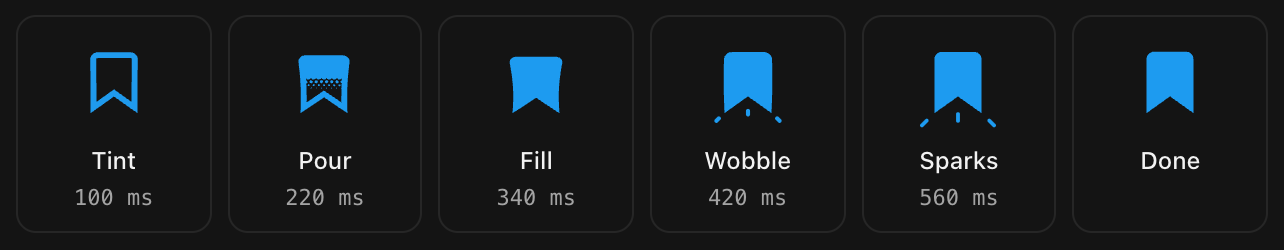
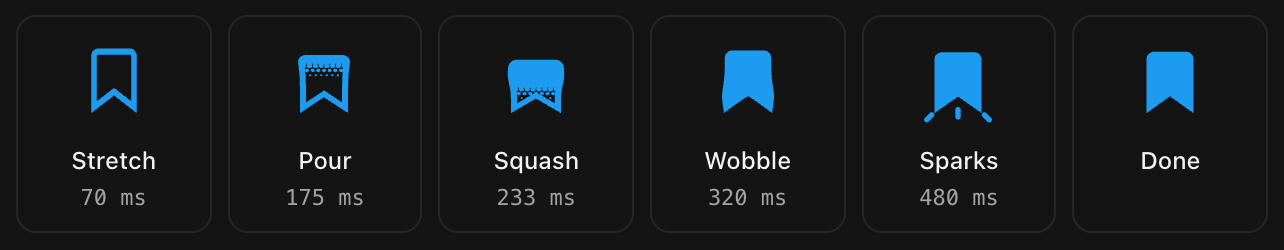
docs: 按新的特效更新说明、架构文档和截图
README 中英文两版的特效阶段表改为拉伸、灌入、压扁、晃动、火花，
时间和幅度都换成从原视频测出的数值。architecture.md 补充了测量方法、
网点液面的尺寸、果冻形变的参数和 track() 插值。docs/screenshots/
由 npm run screenshots 重新生成。

diff --git a/docs/architecture.md b/docs/architecture.md
@@ -16,14 +16,17 @@ The extension watches for step 2. It never clicks, sends or changes anything X n
 
 ## The effect
 
-| Phase | Time (bookmarking) | What happens |
-| --- | --- | --- |
-| Tint | 0–110 ms | The outline turns from grey to blue |
-| Pour | 80–360 ms | Blue liquid pours in from the top. Its edge is a row of round bumps with three rows of droplets ahead of it. The top of the icon swells. |
-| Wobble | 360–900 ms | The icon springs back: the top narrows, the middle pinches, then it settles |
-| Sparks | 340–880 ms | Three sparks fly out of the bottom corners and from under the notch. Each starts as a dot, stretches into a dash, then shrinks and fades. |
+Every curve was measured frame by frame (60 fps) from [@itsluneri's video](https://x.com/itsluneri/status/2116674589719675144), at its normal-speed takes: the bookmark at 0.76 s and the removal at 2.67 s. The icon is 195 px wide there, about 12 px per icon unit, so the measurements are good to a tenth of a unit.
 
-Removing a bookmark (600 ms) swells the top, drains the liquid back up and fades the outline to grey. It has no sparks.
+| Phase | Time (bookmarking, 820 ms) | What happens |
+| --- | --- | --- |
+| Stretch | 0–130 ms | The icon stretches 6 % taller and 3 % narrower. The outline turns from grey to blue by 68 ms. |
+| Pour | 88–268 ms | Liquid falls in from the top with constant acceleration. Its edge is a halftone on 1.81-unit columns: tabs 1.57 long with thin slits between them, large dots (r 0.65) under the slits, small dots (r 0.38) under the tabs. |
+| Squash | 150–300 ms | The icon squashes 13 % shorter, widening by half as much. A bulge up to 14 % wide forms at the top and runs down the icon. |
+| Wobble | 300–620 ms | The icon rebounds 4 % taller, then settles |
+| Sparks | 375–810 ms | As the bulge reaches the bottom, three sparks pop out at the bottom corners (at 45°) and under the notch (straight down). Each outer end shoots out 4.3–4.8 units and slows; the inner end follows later, so the spark stretches into a dash, thins from 1.95 to 1.35 units, and fades from 675 ms. |
+
+Removing a bookmark (540 ms) stretches the icon 6 %, then squashes it 9 % with a bulge running from the bottom up while the liquid drains out, fast at first and slowing to a stop at 395 ms. The outline and the last dots fade to grey from 285 to 415 ms. It has no sparks.
 
 ## Parts
 
@@ -39,17 +42,19 @@ chrome.storage.local        { settings: { enabled, onRemove, locale, version } }
 
 ### `src/effect.ts`: the effect as numbers
 
-`frameAt(kind, ms)` returns one frame: the outline colour's progress, where the liquid's edge is, how the icon is bent and where each spark is. `geometry(frame)` turns that into SVG path data:
+`frameAt(kind, ms)` returns one frame: the colour's progress, where the liquid's edge is, how the icon is bent and where each spark is. `geometry(frame)` turns that into SVG path data:
 
 - The icon's outer edge and the hole in the outline icon are sampled every 0.5 units, so they still look smooth once bent.
-- Bending moves each point sideways by `widthAt(y)`, which widens or narrows the top (`bell`) and pinches the middle (`waist`), and lowers the top towards the bottom edge (`squash`). The bottom edge never moves, so the sparks always leave from the same corners.
-- The liquid is a block above its edge, nine overlapping circles along the edge, and droplets below it. Everything is clipped to the hole grown by 0.25 units. The overlap hides the antialiasing seam two touching shapes of one colour would leave.
+- The jelly is a `Shape`. `squash` lowers the top towards the bottom edge (negative stretches it) and widens the icon by half as much, so it keeps its volume. A bulge of height `bump` sits at `at`, a fraction of the icon's height, and falls off over `above` and `below`. The bottom edge never moves, so the sparks always leave from the same corners.
+- The squash and bulge follow keyframes measured from the video, read with `track()`, a cubic Hermite spline through every key.
+- The liquid is a block above its edge and the halftone below it: tabs, then large dots, then small dots. Everything is clipped to the hole grown by 0.25 units. The overlap hides the antialiasing seam two touching shapes of one colour would leave.
+- The liquid's edge follows a parabola: constant acceleration when pouring, constant deceleration when draining.
 
 Nothing here touches the DOM, so `node --test` covers it directly.
 
 ### `src/render.ts`: drawing a frame
 
-`EffectView` holds one `<svg>` with the icon path (`fill-rule="evenodd"`, so outer edge plus hole is the outline), the liquid path with its `<clipPath>`, and three `<line>`s for the sparks. `draw(kind, ms, colors)` sets their attributes. Every node is made with `createElementNS`. The viewBox is `-3 -3 30 32`, a 24-unit icon with room around it for the swell and the sparks.
+`EffectView` holds one `<svg>` with the icon path (`fill-rule="evenodd"`, so outer edge plus hole is the outline), the liquid path with its `<clipPath>`, and three `<line>`s for the sparks. `draw(kind, ms, colors)` sets their attributes. All three share one colour, so the last of the liquid fades to grey with the outline when a bookmark is removed, as in the video. Every node is made with `createElementNS`. The viewBox is `-3 -3 30 32`, a 24-unit icon with room around it for the swell and the sparks.
 
 ### `src/content.ts`: playing it on x.com
 
@@ -88,7 +93,7 @@ English and Simplified Chinese strings for the settings page. The language defau
 
 | Command | What it covers |
 | --- | --- |
-| `npm test` | `test/unit/`: the icon's shape at rest, start and end frames, the liquid only moving one way, the bottom edge staying put, sparks staying inside the viewBox, no `NaN` in any path, colour parsing and mixing, settings, which effect plays for which switch, the preview text, both languages having the same keys |
+| `npm test` | `test/unit/`: the icon's shape at rest, start and end frames, the jelly matching the video's measured stretch, squash and rebound, the bulge's direction, the halftone's parts, the liquid accelerating in and decelerating out, the bottom edge staying put, sparks staying inside the viewBox, no `NaN` in any path, `track()`, colour parsing and mixing, settings, which effect plays for which switch, the preview text, both languages having the same keys |
 | `npm run test:e2e` | `test/e2e/run.mjs`: loads `dist/` into headless Chrome for Testing and maps `x.com` to a local HTTPS page whose bookmark buttons switch the way X's do, colour delay included. It covers clicking and <kbd>B</kbd>, the overlay sitting exactly on X's icon, the liquid and sparks, X's icon coming back untouched, re-renders and typing playing nothing, a slow server, reduced motion, both switches, storage, restore and undo, the preview, and the language switch. |
 | `npm run screenshots` | The same run, also writing the README images to `docs/screenshots/` |
 

diff --git a/README.md b/README.md
@@ -31,7 +31,7 @@
 
 </div>
 
-Surprise Collection is a Chrome extension for x.com. When you bookmark a post, X swaps the outline icon for a filled one in a single frame. Surprise Collection replaces that swap with the effect [@itsluneri showed](https://x.com/itsluneri/status/2116674589719675144): the icon turns blue, liquid pours in from the top with droplets running ahead of it, the icon wobbles back into shape, and three sparks fly out below it. Removing a bookmark drains the liquid back out.
+Surprise Collection is a Chrome extension for x.com. When you bookmark a post, X swaps the outline icon for a filled one in a single frame. Surprise Collection replaces that swap with the effect [@itsluneri showed](https://x.com/itsluneri/status/2116674589719675144): the icon stretches as it turns blue, liquid falls in behind a halftone edge, the icon squashes like jelly as the liquid lands, a bulge runs down it, and three sparks fly out below it. Removing a bookmark squashes it the other way and drains the liquid back out. Every curve was measured frame by frame from that video.
 
 Bookmarking itself works exactly as before. The extension only draws over the icon while the effect plays. It runs only on x.com and twitter.com, asks for no permission besides `storage`, and makes no network requests.
 
@@ -83,19 +83,20 @@ Then click the reload button on the extension's card in `chrome://extensions` an
 
 <picture>
   <source media="(prefers-color-scheme: dark)" srcset="docs/screenshots/frames-dark.png" />
-  <img src="docs/screenshots/frames-light.png" alt="The effect frame by frame: Tint at 100 ms, Pour at 220 ms, Fill at 340 ms, Wobble at 420 ms, Sparks at 560 ms, Done" width="640" />
+  <img src="docs/screenshots/frames-light.png" alt="The effect frame by frame: Stretch at 70 ms, Pour at 175 ms, Squash at 233 ms, Wobble at 320 ms, Sparks at 480 ms, Done" width="640" />
 </picture>
 
 </div>
 
 | Phase | When | What happens |
 |---|---|---|
-| **Tint** | 0–110 ms | The outline turns from X's grey to its bookmarked blue. |
-| **Pour** | 80–360 ms | Liquid pours in from the top. Its edge is a row of bumps with droplets running ahead of it, and the top of the icon swells. |
-| **Wobble** | 360–900 ms | The icon springs back into shape and settles. |
-| **Sparks** | 340–880 ms | Three sparks fly out of the bottom corners and from under the notch, stretch into dashes, then fade. |
+| **Stretch** | 0–130 ms | The icon stretches 6 % taller and narrower while the outline turns from X's grey to its bookmarked blue. |
+| **Pour** | 88–268 ms | Liquid falls in from the top, faster and faster. Its edge is a halftone: a row of tabs with thin slits between them, a row of large dots, then a row of small dots. |
+| **Squash** | 150–300 ms | As the liquid lands, the icon squashes 13 % shorter and bulges out at the top. The bulge runs down the icon and flares its bottom. |
+| **Wobble** | 300–620 ms | The icon rebounds 4 % taller and settles. |
+| **Sparks** | 375–810 ms | When the bulge reaches the bottom, three sparks fly out of the bottom corners and from under the notch. Each stretches into a dash, thins, and fades. |
 
-Removing a bookmark takes 600 ms: the top swells, the liquid drains back up and the outline fades to grey.
+Removing a bookmark takes 540 ms: the icon stretches, then squashes 9 % with a bulge running up it while the liquid drains back out, and the outline and the last dots fade to grey.
 
 ## Features
 

diff --git a/README.zh-CN.md b/README.zh-CN.md
@@ -31,7 +31,7 @@
 
 </div>
 
-Surprise Collection 是一个用于 x.com 的 Chrome 扩展。在 X 上收藏帖子时，书签图标会在一帧之内从空心换成实心。Surprise Collection 把这个切换换成 [@itsluneri 展示的特效](https://x.com/itsluneri/status/2116674589719675144)：图标先变蓝，液体从上往下灌进来，前面还有几排小水滴；灌满后图标晃一晃回到原形，下方迸出三道火花。取消收藏时，液体会退回去。
+Surprise Collection 是一个用于 x.com 的 Chrome 扩展。在 X 上收藏帖子时，书签图标会在一帧之内从空心换成实心。Surprise Collection 把这个切换换成 [@itsluneri 展示的特效](https://x.com/itsluneri/status/2116674589719675144)：图标边变蓝边拉长，液体带着网点状的边缘从上面落进来；液体落地时图标像果冻一样被压扁，一个鼓包从上往下跑过图标，最后下方迸出三道火花。取消收藏时，图标反向晃动，液体退回去。所有曲线都是从那段视频里逐帧测出来的。
 
 收藏功能本身完全不变，扩展只在特效播放期间盖在图标上面画。它只在 x.com 和 twitter.com 上运行，除了 `storage` 不要任何权限，也不发任何网络请求。
 
@@ -83,19 +83,20 @@ npm run build
 
 <picture>
   <source media="(prefers-color-scheme: dark)" srcset="docs/screenshots/frames-dark.png" />
-  <img src="docs/screenshots/frames-light.png" alt="特效逐帧拆解：100 ms 变色，220 ms 灌入，340 ms 灌满，420 ms 晃动，560 ms 火花，完成" width="640" />
+  <img src="docs/screenshots/frames-light.png" alt="特效逐帧拆解：70 ms 拉伸，175 ms 灌入，233 ms 压扁，320 ms 晃动，480 ms 火花，完成" width="640" />
 </picture>
 
 </div>
 
 | 阶段 | 时间 | 发生了什么 |
 |---|---|---|
-| **变色** | 0–110 ms | 空心图标从 X 的灰色变成收藏后的蓝色。 |
-| **灌入** | 80–360 ms | 液体从顶部灌进来。液面是一排圆形凸起，前面有几排小水滴，图标顶部同时鼓起来。 |
-| **晃动** | 360–900 ms | 图标弹回原形，晃几下后停住。 |
-| **火花** | 340–880 ms | 三道火花从两个底角和缺口下方飞出，先拉长成短线，再缩小淡出。 |
+| **拉伸** | 0–130 ms | 图标被拉高 6 %、变窄，同时空心图标从 X 的灰色变成收藏后的蓝色。 |
+| **灌入** | 88–268 ms | 液体从顶部落进来，越落越快。液面边缘是网点：一排中间有细缝的方块，一排大圆点，再一排小圆点。 |
+| **压扁** | 150–300 ms | 液体落地时，图标被压矮 13 %，顶部鼓出来；鼓包从上往下跑过图标，把底部撑开。 |
+| **晃动** | 300–620 ms | 图标回弹，拉高 4 % 后停住。 |
+| **火花** | 375–810 ms | 鼓包跑到底部时，三道火花从两个底角和缺口下方飞出，拉长成短线，变细，再淡出。 |
 
-取消收藏用时 600 ms：顶部鼓起，液体往上退，空心图标淡回灰色。
+取消收藏用时 540 ms：图标先拉高，再压矮 9 %，同时一个鼓包从下往上跑、液体退回去，最后空心图标和剩下的网点一起淡回灰色。
 
 ## 特性
 
